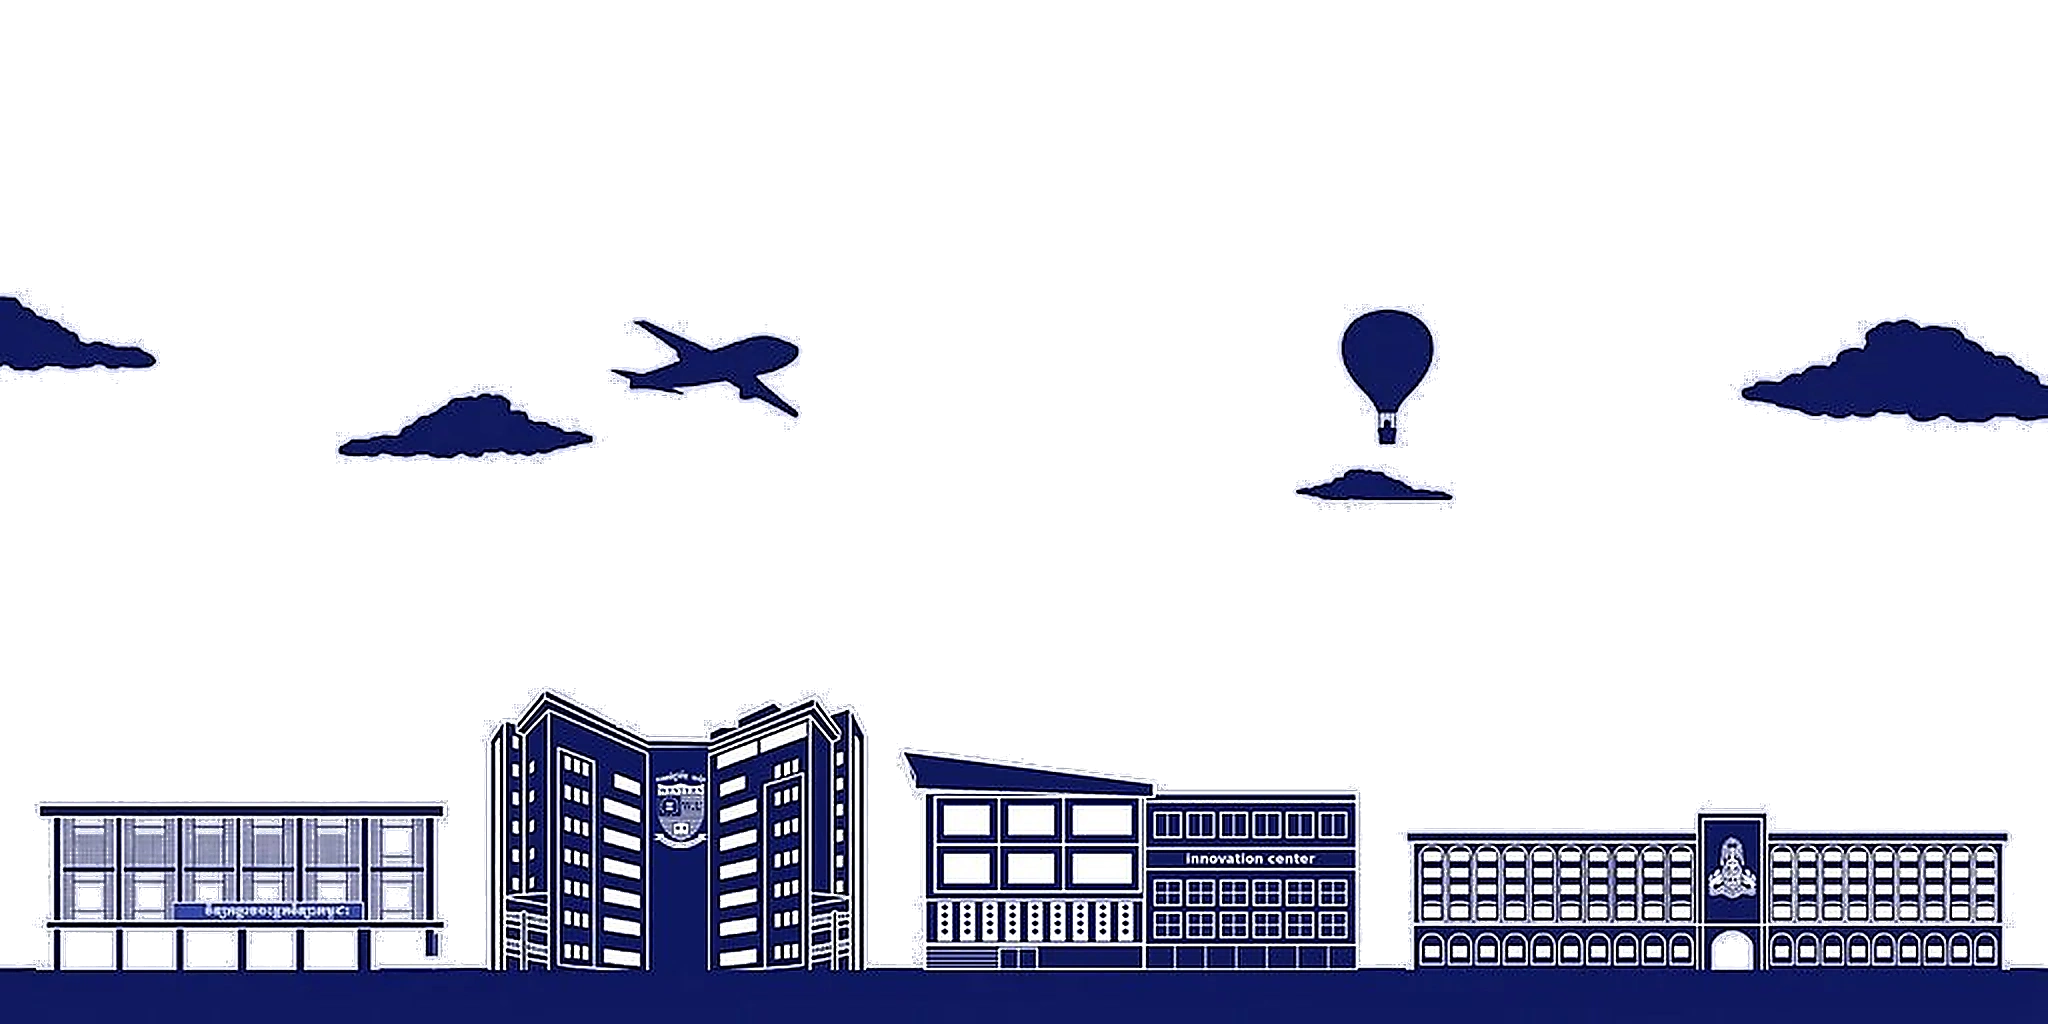
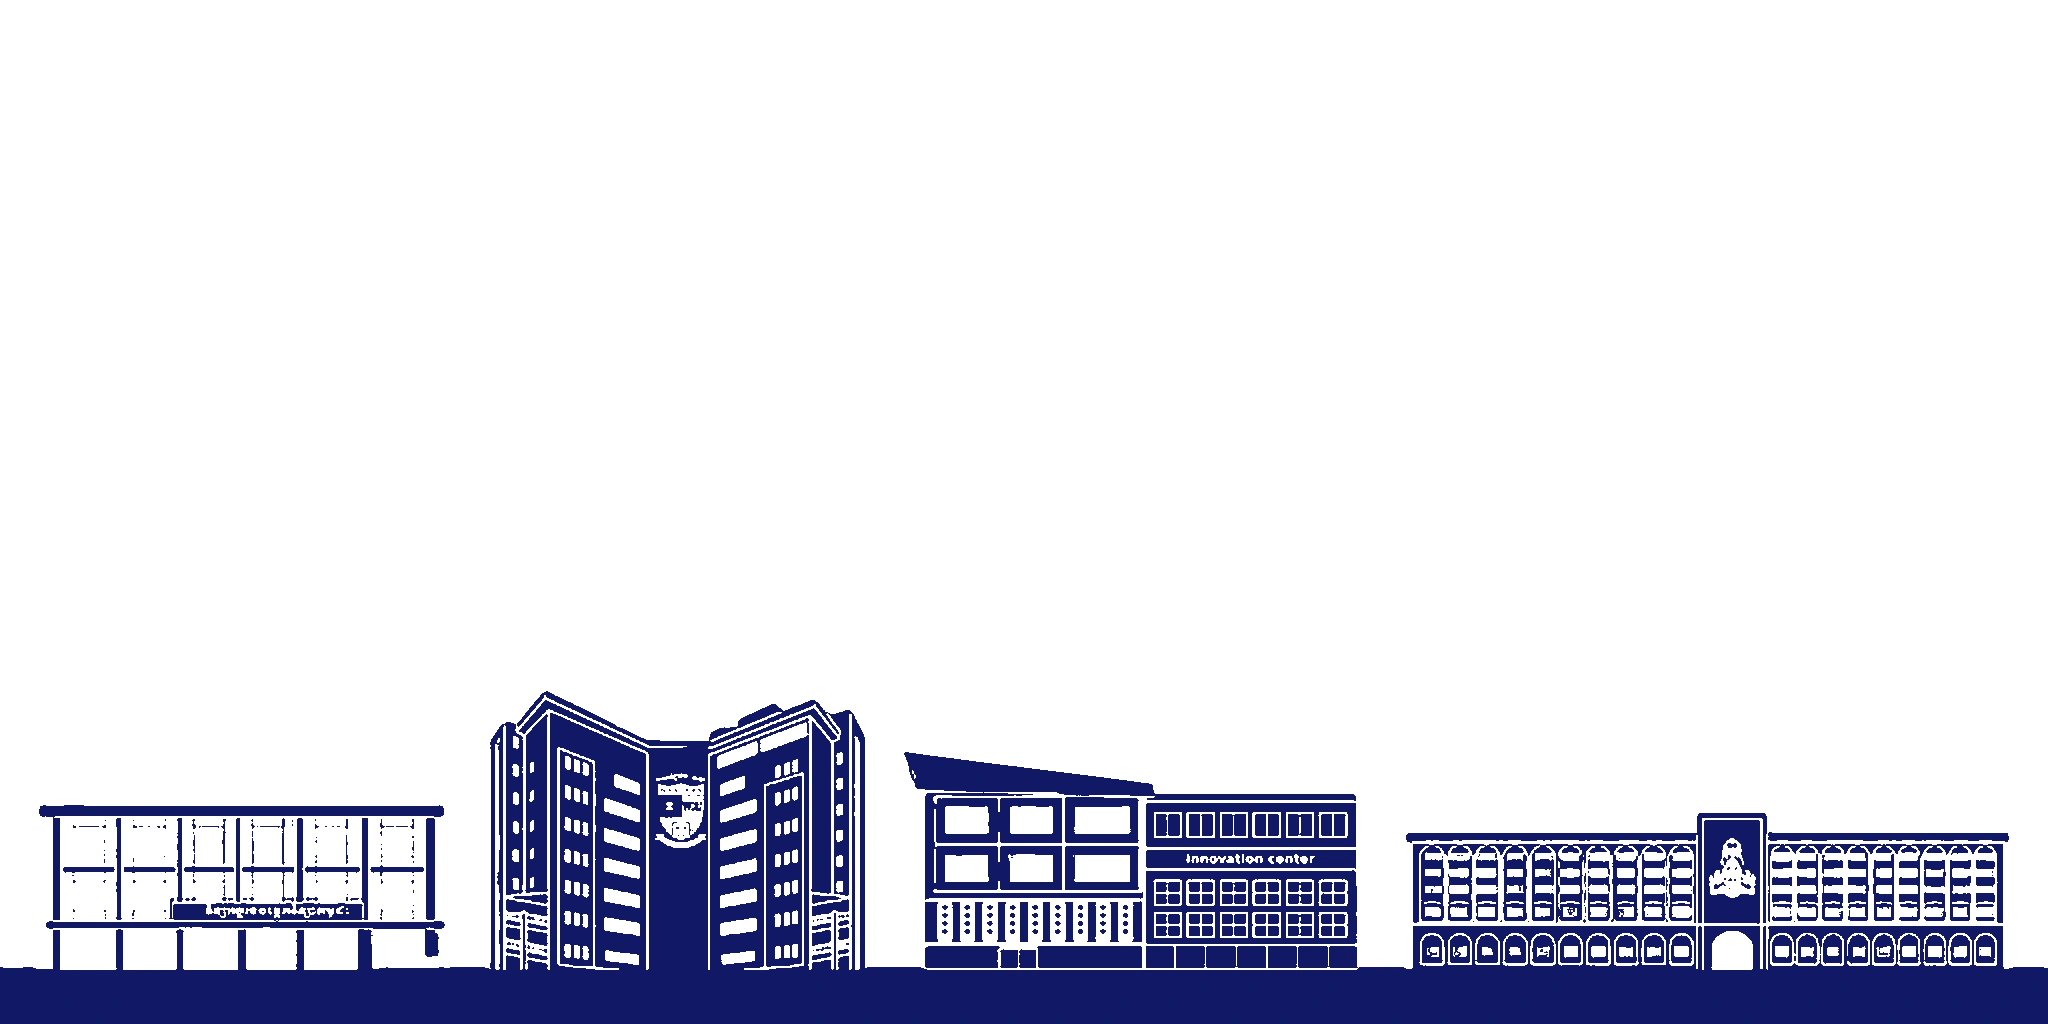
feat(footer): make cambodian campus skyline background 100% transparent

diff --git a/frontend/src/components/layout/footer.tsx b/frontend/src/components/layout/footer.tsx
@@ -110,7 +110,7 @@ export function Footer() {
       <div className="w-full relative overflow-hidden select-none bg-[#111965] -mb-1">
         <div className="w-full">
           <Image
-            src="/images/cambodia-campuses-skyline-seamless.webp"
+            src="/images/cambodia-campuses-skyline-transparent.webp"
             alt="Cambodian University Campuses - RUPP, Western University, CADT Innovation Center, ITC"
             width={2048}
             height={1024}
